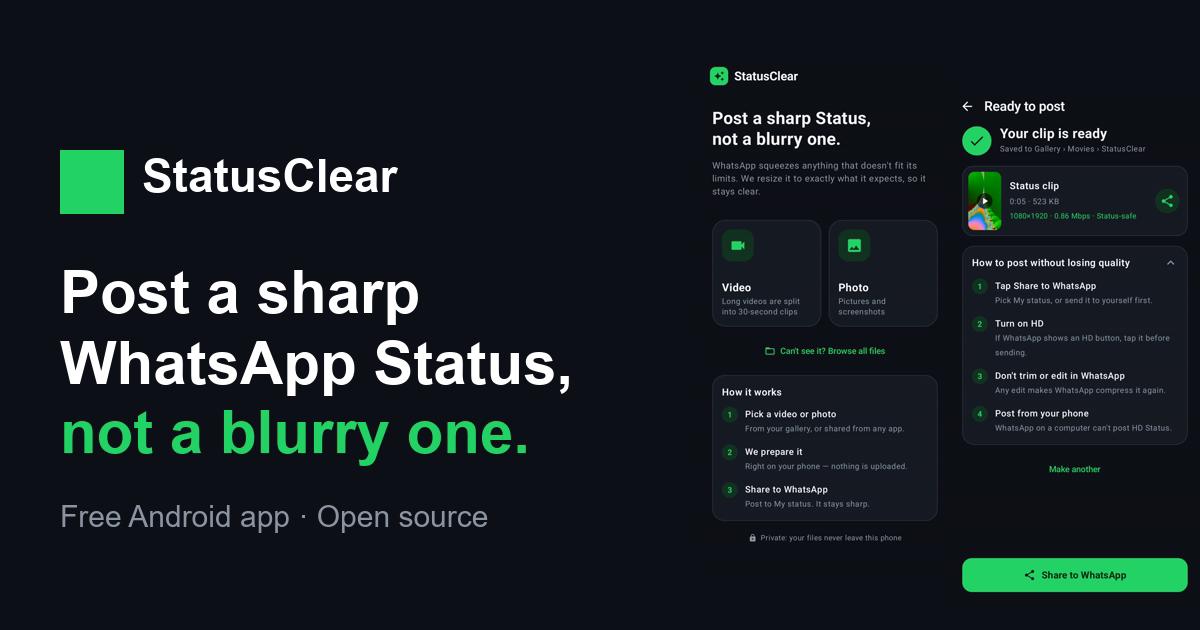
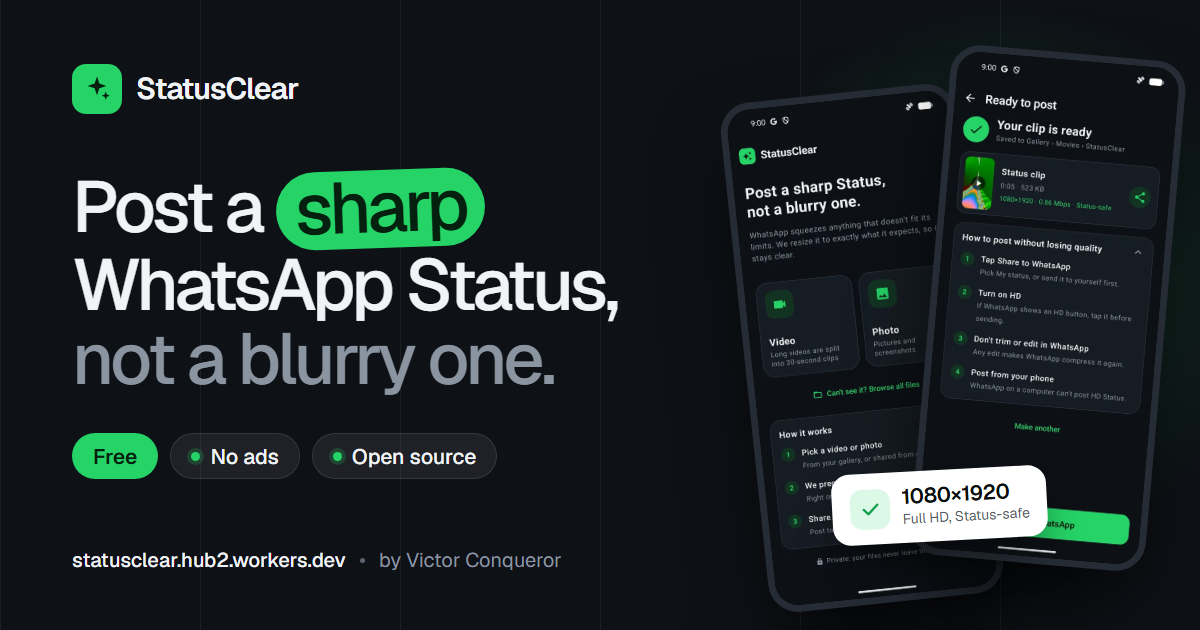
Website: new share image matching the redesign (free, no ads, creator credit)

diff --git a/docs/index.html b/docs/index.html
@@ -16,13 +16,15 @@
 <meta property="og:locale" content="en_US">
 <meta property="og:title" content="StatusClear: post a sharp WhatsApp Status, not a blurry one">
 <meta property="og:description" content="Free Android app with no ads. Keeps your WhatsApp Status videos and photos in full HD. A free PureStatus alternative. Open source, no account, nothing uploaded.">
-<meta property="og:image" content="https://statusclear.hub2.workers.dev/img/og.png">
-<meta property="og:image:alt" content="StatusClear: sharp WhatsApp Status videos and photos">
+<meta property="og:image" content="https://statusclear.hub2.workers.dev/img/og.png?v=2">
+<meta property="og:image:width" content="1200">
+<meta property="og:image:height" content="630">
+<meta property="og:image:alt" content="StatusClear: post a sharp WhatsApp Status, not a blurry one. Free, no ads, open source. By Victor Conqueror.">
 <meta property="og:url" content="https://statusclear.hub2.workers.dev/">
 <meta name="twitter:card" content="summary_large_image">
 <meta name="twitter:title" content="StatusClear: fix blurry WhatsApp Status. Free, no ads">
 <meta name="twitter:description" content="Free Android app that posts your WhatsApp Status in full HD. No ads, no account, open source. A free PureStatus alternative.">
-<meta name="twitter:image" content="https://statusclear.hub2.workers.dev/img/og.png">
+<meta name="twitter:image" content="https://statusclear.hub2.workers.dev/img/og.png?v=2">
 <script type="application/ld+json">
 {
   "@context": "https://schema.org",
